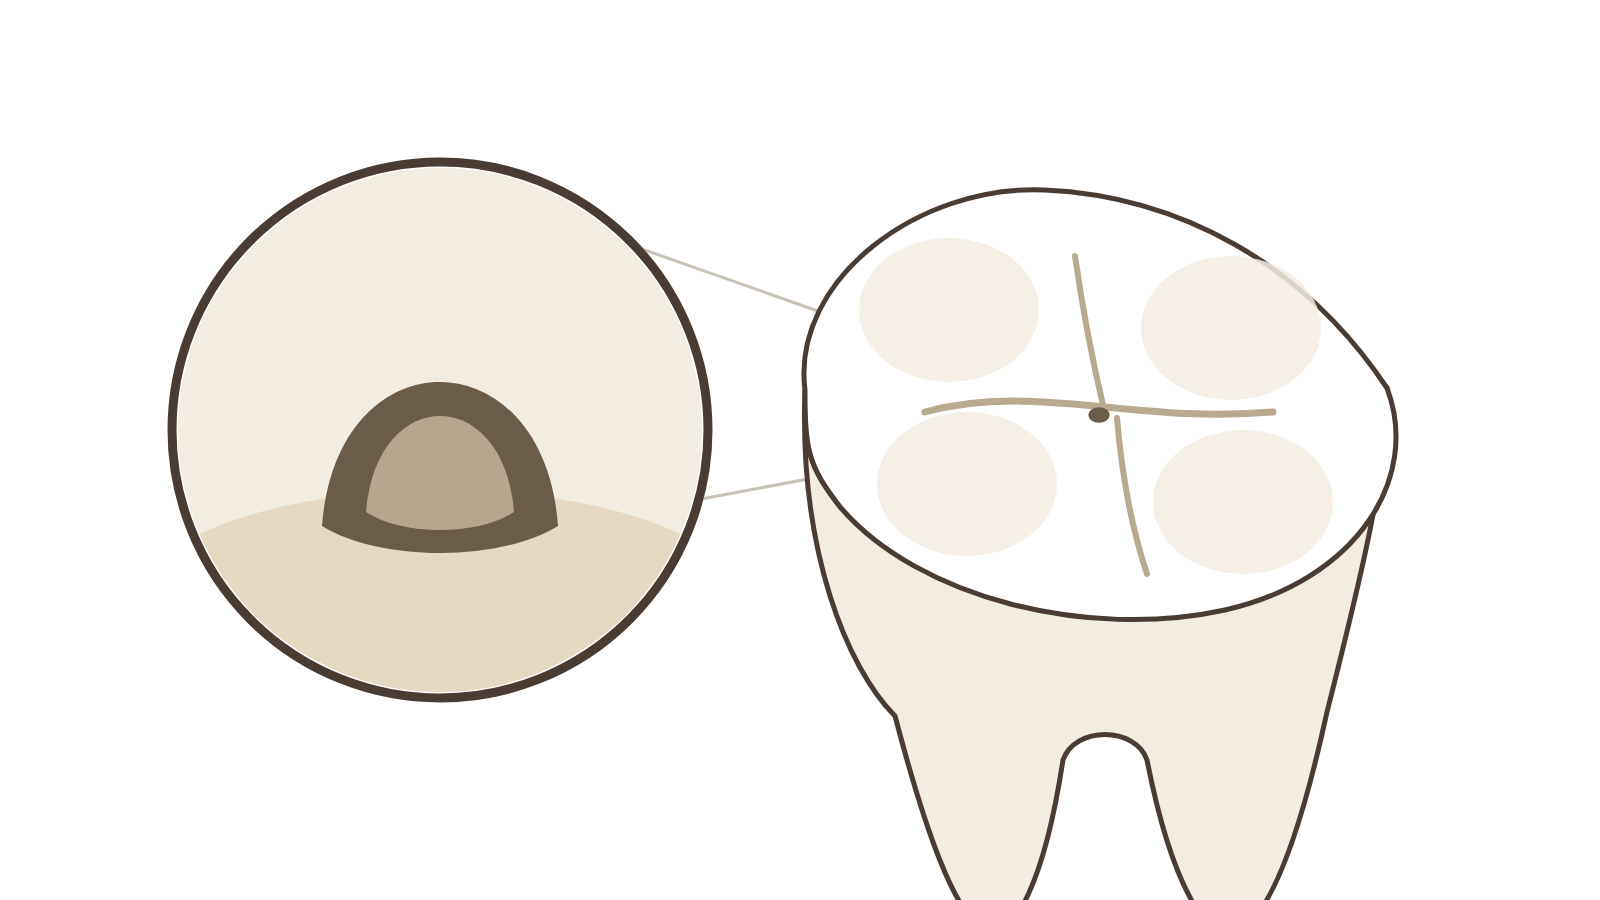
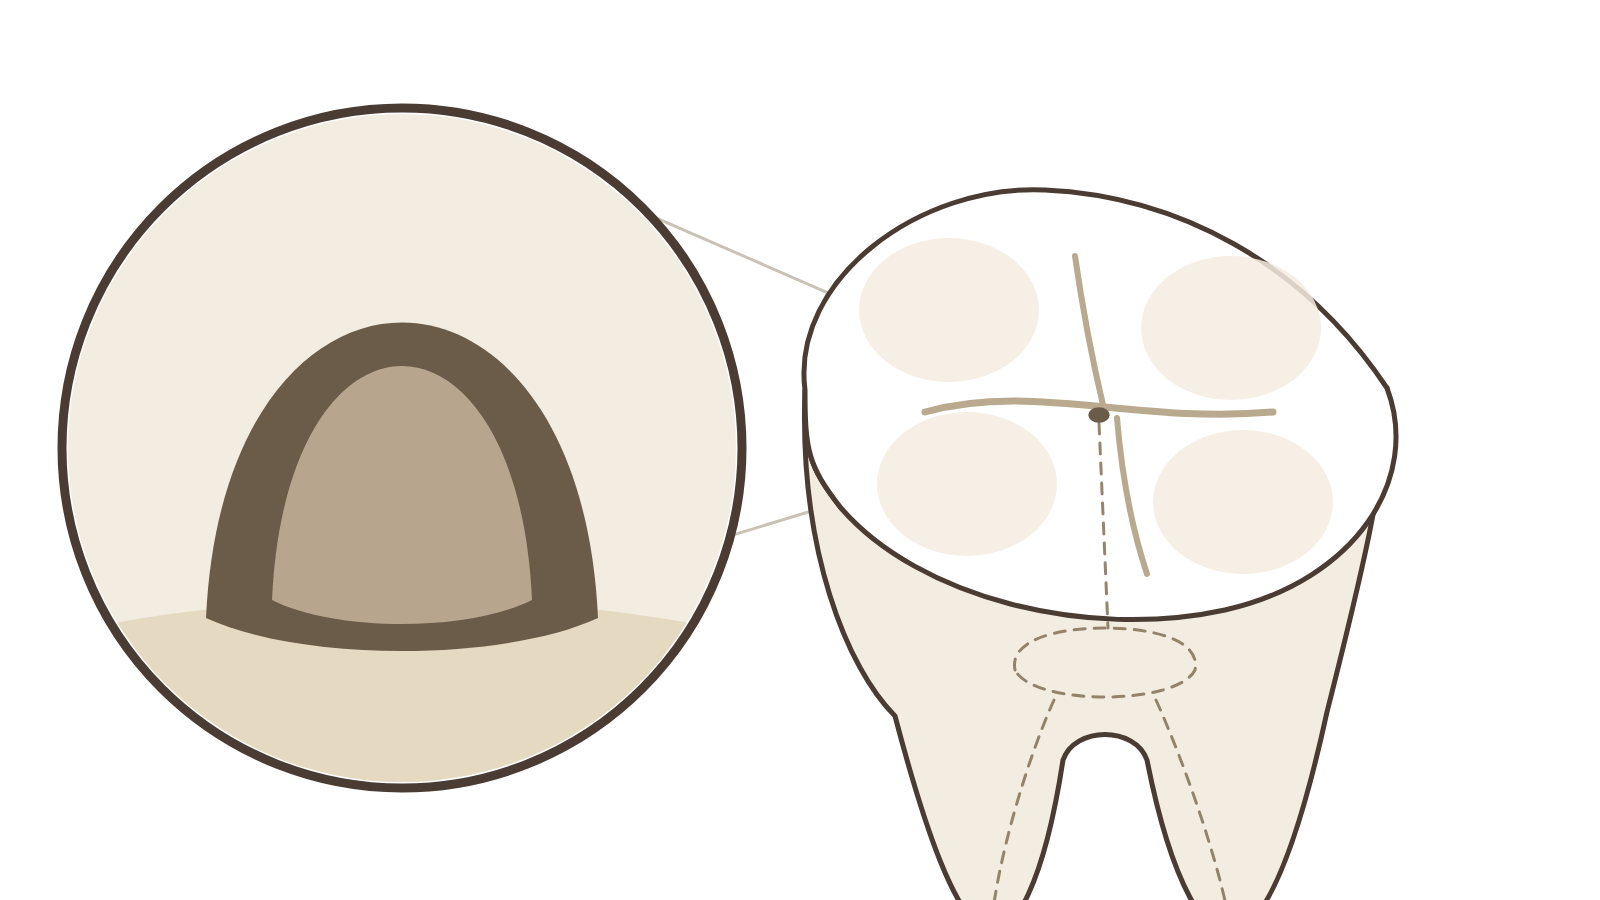
〈根管鈣化〉HERO 第三輪：圈放大 ＋ 牙齒裡加虛線的鈣化髓腔（使用者指定）
使用者看第一版出圖：「圖片感覺還可以　不過放大鏡的視野和裡面的人物
有點小　牙齒目前上面有洞可以保留　但用虛線畫出鈣化的牙髓腔和狹窄
根管的樣子」

第一版整體通過（洞的大小、探險的氣氛、頭戴放大鏡＋提燈、沒有長出字、
沒有人看鏡頭、只有領隊開口，逐項都對），出圖存成 hero-v1.jpg，
那一份提示詞留成 hero-prompt-v2-cave.txt。

一、圈放大 —— 三個數字一起給，不能只說「大一點」：
・圓圈直徑 ＝ 整張圖寬的一半（原本約 43%）
・洞口填滿圈（上緣貼近鏡框，底下只留一條窄窄的地面）
・最高那位 ＝ 圓圈直徑的一半（原本約 35%），四人橫向占圈寬的四分之三
・牙齒因此從「右邊三分之二」收成右邊一半

二、虛線的鈣化髓腔與狹窄根管，形狀照參考圖，只有三件事：
・從小凹洞往下一小段虛線（入口在這裡）
・一個又小又扁的腔室，在牙冠體內、咬合面底下
  ⚠ 第一版參考圖畫在咬合面上，像貼在表面的貼紙，移下來了
・兩條細到只剩一條線的根管，全長一樣細
  ⚠ 不可以上面粗下面細 —— 文章第五版已經把「鈣化多半從牙冠往根尖
  進行」那句拿掉了（使用者更正），圖不可以把它畫回去

AVOID 另補六條：髓腔畫大／根管畫成粗管／上粗下細／用實線或填色／
虛線變成箭頭或標尺／牙齒被切成剖面／圈裡四個小人淹沒在空地裡。

提示詞只換出問題的那幾段，其餘逐字保留（第七節第 19 條）。

Claude-Session: https://claude.ai/code/session_0131yZgrnMDF1Q9xBCBg3Gcp

Changed region(s): [[0.0312, 0.0933, 0.5, 0.9022], [0.6875, 0.6844, 0.7188, 0.7156]]

diff --git a/drafts/pulp-calcification/hero-prompt.md b/drafts/pulp-calcification/hero-prompt.md
@@ -8,7 +8,9 @@
 
 | 檔案 | 是什麼 |
 | --- | --- |
-| `hero-prompt.txt` | **要貼進生成器的那一份**（第二版：洞穴探險） |
+| `hero-prompt.txt` | **要貼進生成器的那一份**（第三版：圈放大 ＋ 牙齒裡加虛線的鈣化髓腔） |
+| `hero-v1.jpg` | 第一版的出圖（1376×768，比例 1.792，過得了 `hero-resize.mjs` 的 16:9 容差） |
+| `hero-prompt-v2-cave.txt` | 第二版（洞穴探險，第一次出圖用的那一份） |
 | `cave-ref.png` | **參考圖，一定要一起附上去**。⚠ 它管的是**牙齒的角度**、**那個洞有多小**、**版面** |
 | `cave-ref.mjs` | 上面那張的產生器 |
 | `hero-prompt-v1-screen.txt` | 第一版（螢幕上三顆牙的剖面）。**沒有出過圖**，使用者換了梗 |
@@ -31,6 +33,35 @@
 
 ⚠ 它同時是這一篇的 `og:image`（LINE 分享卡只有 **212 CSS px** 寬）——
 這個梗在那個尺寸下是**兩個形狀**（一顆大牙 ＋ 一個圓圈），比第一版好讀很多。
+
+## 一之二、第三輪（2026-09-21）：使用者看第一版出圖
+
+> 「圖片感覺還可以　不過放大鏡的視野和裡面的人物有點小
+> 　牙齒目前上面有洞可以保留　但用虛線畫出鈣化的牙髓腔和狹窄根管的樣子」
+
+**⭐ 第一版整體通過** —— 洞的大小、探險隊的氣氛、頭戴放大鏡＋提燈、
+沒有長出字、沒有人看鏡頭、只有領隊開口，逐項都對。只改兩件：
+
+| # | 改法 |
+| --- | --- |
+| 1 | **圈放大、圈裡拉近**。三個數字一起給，不能只說「大一點」：圓圈直徑 ＝ **整張圖寬的一半**（原本約 43%）／**洞口填滿圈**（上緣貼近鏡框、底下只留一條窄窄的地面）／**最高那位 ＝ 圓圈直徑的一半**（原本約 35%），四個人橫向占圈寬的四分之三。牙齒因此從「右邊三分之二」收成**右邊一半** |
+| 2 | **牙齒裡加虛線的鈣化髓腔與狹窄根管**（使用者指定）。⚠ 形狀照參考圖，見下面那一節 |
+
+### ⚠⚠ 那組虛線只有三件事，多一件都不行
+
+參考圖 `cave-ref.png` 已經把它畫死：
+
+1. **從那個小凹洞往下一小段虛線** —— 「入口在這裡」的意思。
+2. **一個又小又扁的腔室**，位置在**牙冠體內、咬合面底下**
+   （⚠ 第一版參考圖畫在咬合面上，看起來像貼在表面的貼紙，移下來了）。
+   **它要小得不成比例** —— 那就是「被鈣化壓小」的樣子，畫成飽滿的髓腔就不叫鈣化。
+3. **兩條細到只剩一條線的根管**，從腔室底下一路到牙根末端、出畫面。
+   ⚠⚠ **全長一樣細** —— 不可以上面粗下面細。文章第五版已經把
+   「鈣化多半從牙冠往根尖進行」那句拿掉了（使用者更正），圖不可以把它畫回去。
+
+⚠ 另外三件寫進 `AVOID`：**虛線不可以變成箭頭或標尺**（有端桿的那種）、
+**牙齒不可以被切開成剖面**（還是一顆從外面看的完整的牙）、
+**髓腔不可以填色或用實線畫**（那會變成主角，搶掉放大鏡）。
 
 ## 二、⚠⚠⚠ 這張圖唯一會生死的數字：**洞要小**
 
